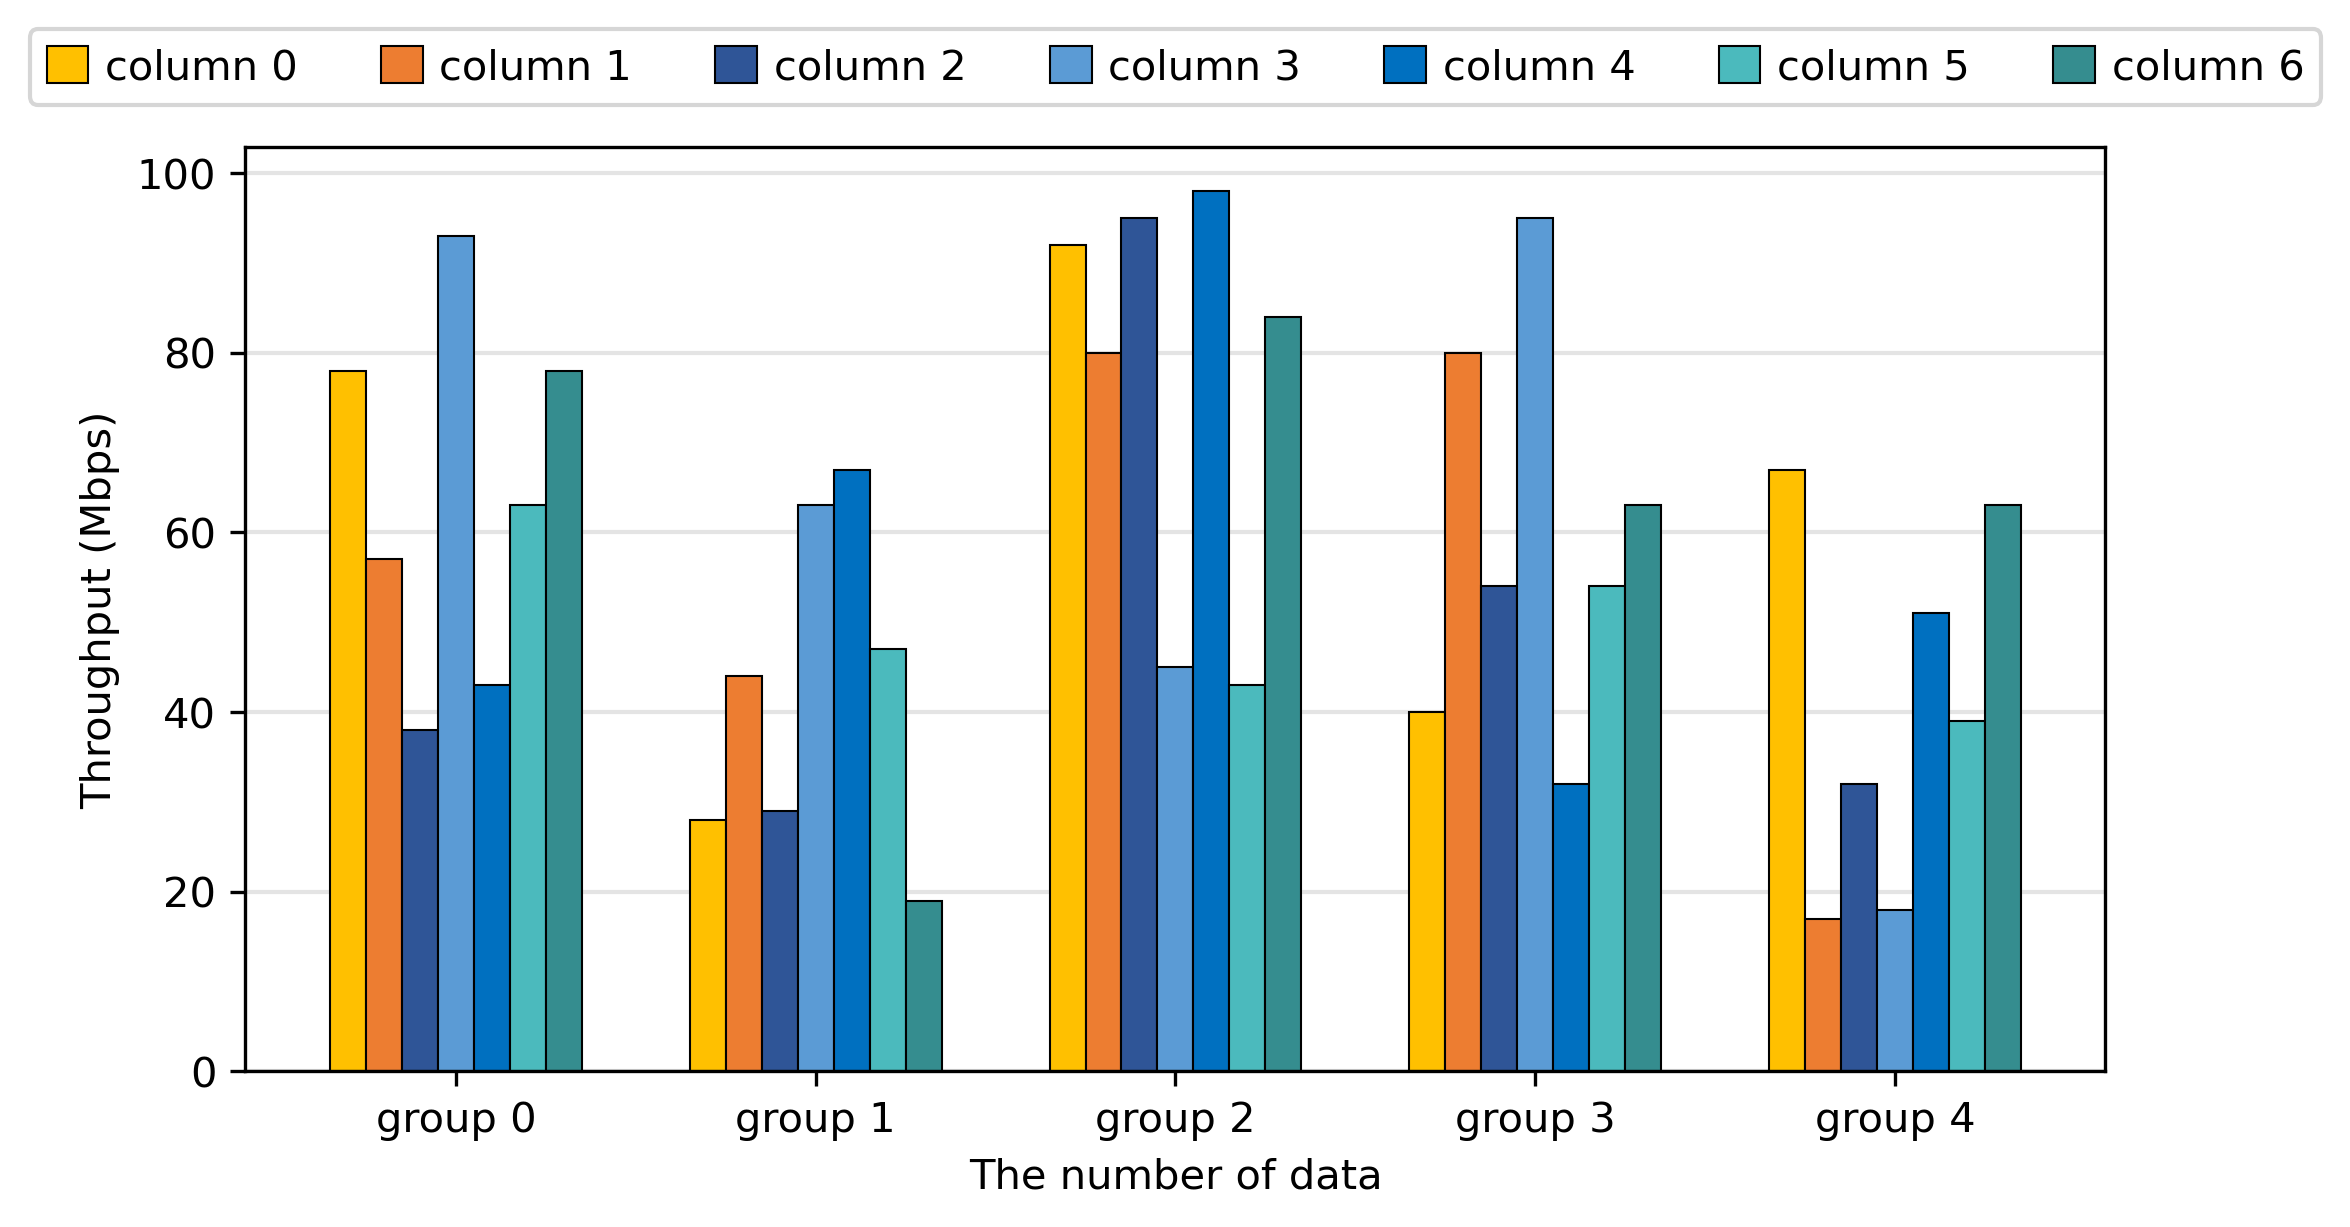
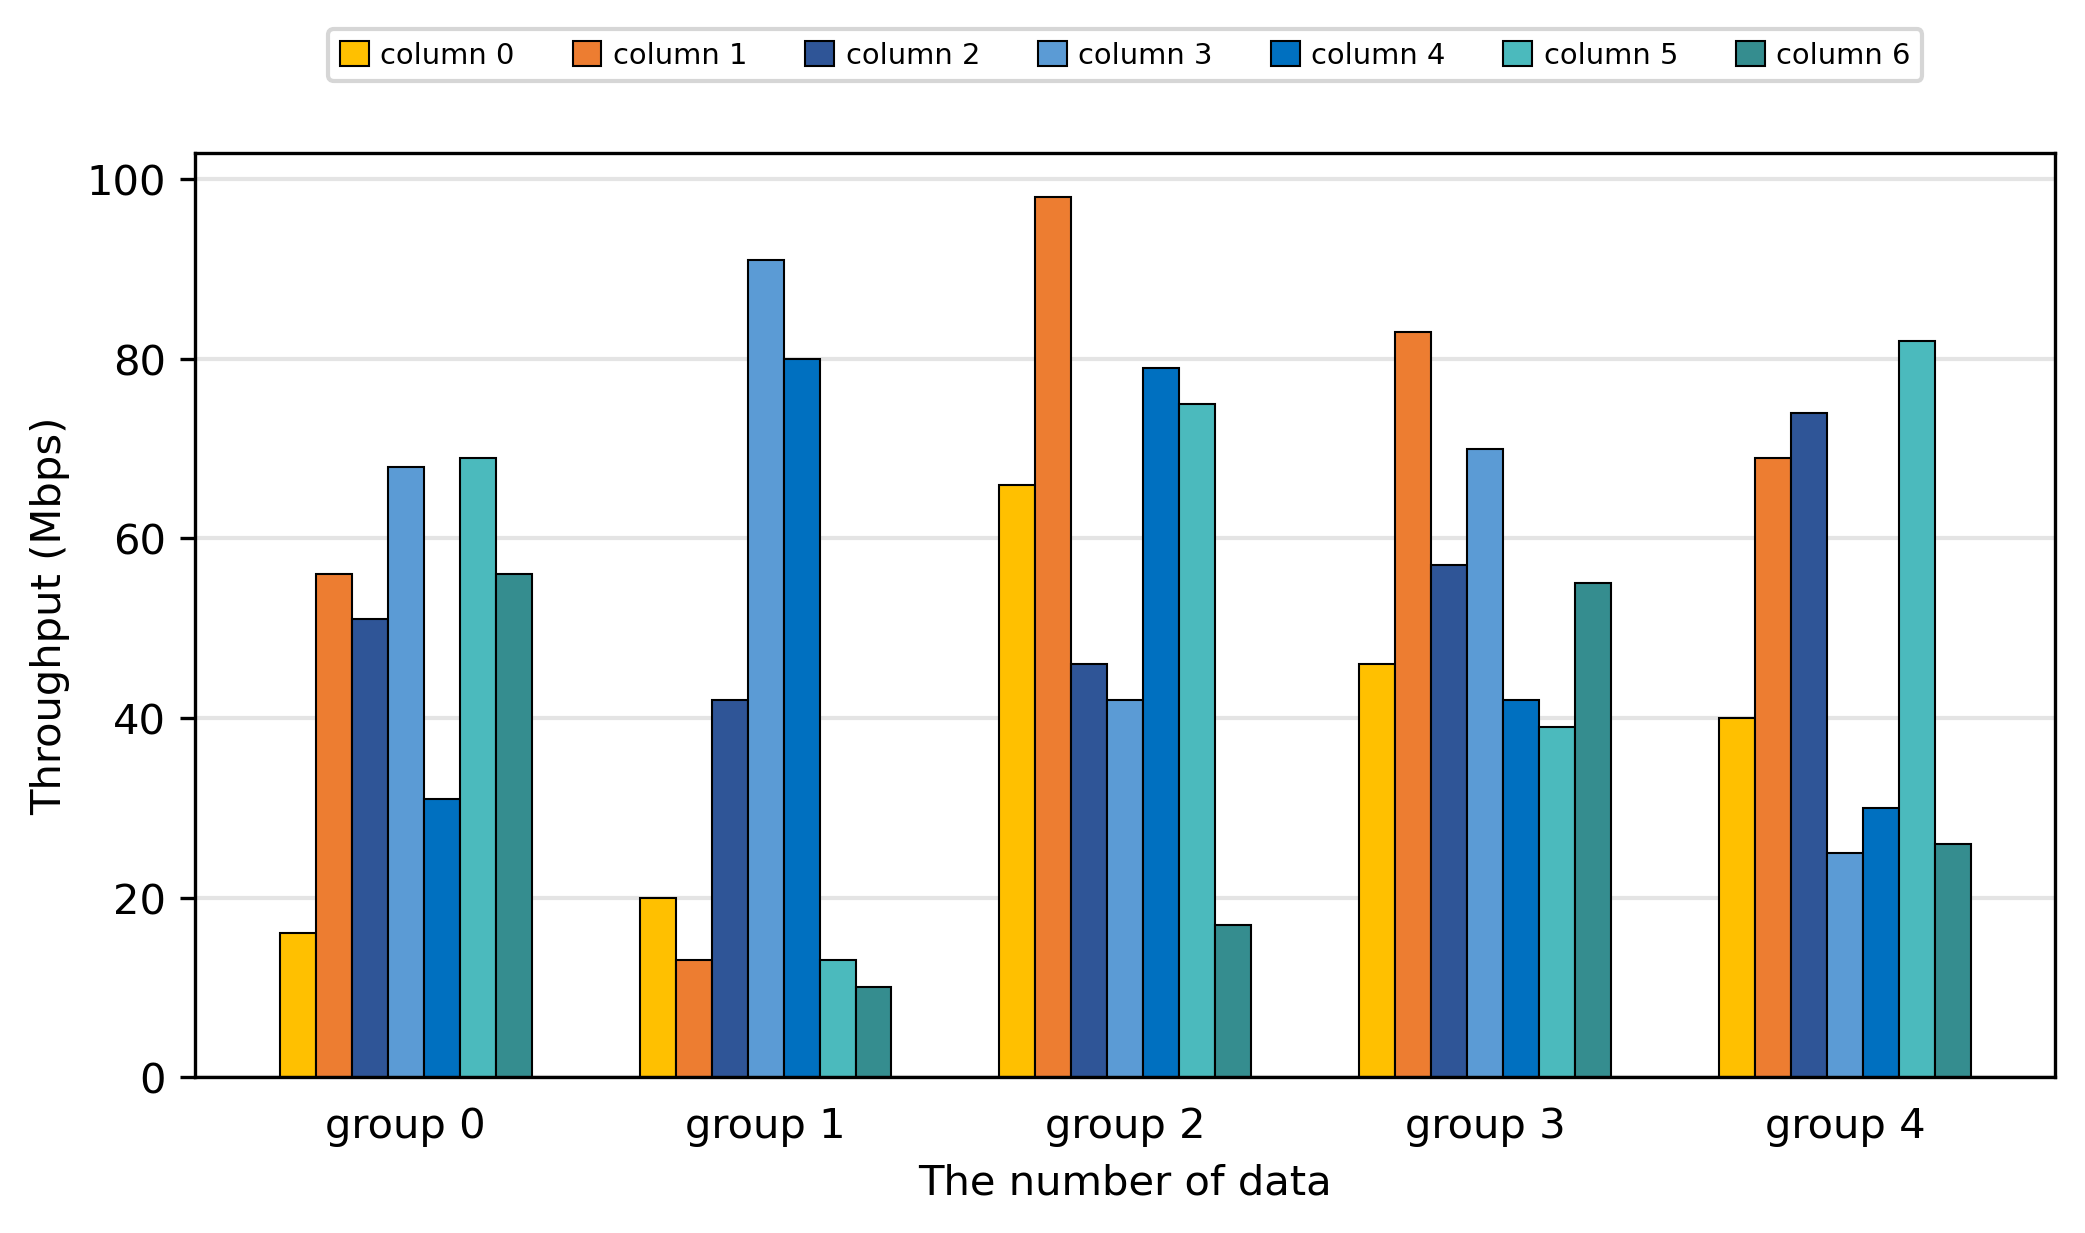
[dev] : update color style

diff --git a/paperplotlib/color.css b/paperplotlib/color.css
@@ -2,34 +2,22 @@
     color: #acbcdb #012790;
 }
 
-.warm {
-    color: #ffc000 #fdd835 #fbc02d #f9a825 #f57f17;
-}
-
-.one {
+.style-1 {
     color: #0070c0;
-}
-
-.two {
     color: #ffc000 #0070c0;
-}
-
-.three {
-    color: #4472c4 #ffc000 #63c0cf;
-}
-
-.four {
+    color: #ffc000 #4472c4 #63c0cf;
     color: #ffc000 #4c91b8 #0070c0 #63c0cf;
-}
-
-.five {
     color: #ffc000 #ed7d31 #5b9bd5 #4bbabd #358d8f;
-}
-
-.six {
     color: #ffc000 #ed7d31 #5b9bd5 #0070c0 #4bbabd #358d8f;
+    color: #ffc000 #ed7d31 #2f5597 #5b9bd5 #0070c0 #4bbabd #358d8f;
 }
 
-.seven {
-    color: #ffc000 #ed7d31 #2f5597 #5b9bd5 #0070c0 #4bbabd #358d8f;
+.style-2 {
+    color: #2a6fdb;
+    color: #FEDA93 #2a6fdb;
+    color: #FEDA93 #48d6d2 #2a6fdb;
+    color: #FEDA93 #81e9e6 #48d6d2 #2a6fdb;
+    color: #FEDA93 #81e9e6 #48d6d2 #2a6fdb #122c91;
+    color: #FEDA93 #FCB24B #81e9e6 #48d6d2 #2a6fdb #122c91;
+    color: #FEDA93 #FCB24B #B56D25 #81e9e6 #48d6d2 #2a6fdb #122c91;
 }

diff --git a/paperplotlib/bar_graph.py b/paperplotlib/bar_graph.py
@@ -5,8 +5,8 @@ import numpy as np
 
 
 class BarGraph(Graph):
-    def __init__(self) -> None:
-        super().__init__()
+    def __init__(self, style_id: int = 1) -> None:
+        super().__init__(style_id=style_id)
 
         self._bar_width = 0.3  # 柱状图宽度 [0-1] (default 0.8)
         self._group_threshold = 0.15  # 组间距
@@ -21,9 +21,7 @@ class BarGraph(Graph):
         """
         # x 轴坐标等距
         x_ticks = range(len(x_data))
-
-        self.ax.bar(x_ticks, y_data, width=self._bar_width, color=COLOR.get_colors(1))
-
+        self.ax.bar(x_ticks, y_data, width=self._bar_width, color=COLOR.get_colors(1, self.style_id))
         # x 轴标签和位置的映射
         self.ax.set_xticks(x_ticks, x_data)
 
@@ -40,19 +38,20 @@ class BarGraph(Graph):
         emphasize_index: 高亮的列索引
         """
         assert np.shape(data) == (len(group_names), len(column_names)), "二维数据应为二维列表"
+
+        group_len = len(group_names)
+        column_len = len(column_names)
+
         if emphasize_index != -1:
             assert (
                 type(emphasize_index) == int and emphasize_index < len(column_names) and emphasize_index >= 0
             ), f"emphasize_index应在[0, {len(column_names)})之间"
 
-        group_len = len(group_names)
-        column_len = len(column_names)
-
         # 如果列数很多, 考虑到组间距, 所以重新计算一下柱状图宽度
         if column_len >= 3:
             self._bar_width = (0.5 - self._group_threshold) / column_len * 2
 
-        colors = COLOR.get_colors(column_len, emphasize_index)
+        colors = COLOR.get_colors(column_len, self.style_id, emphasize_index)
         for i in range(column_len):
             bar_pos = -column_len + 2 * i + 1
             x_ticks = [j + bar_pos / 2 * self._bar_width for j in range(group_len)]
@@ -61,9 +60,10 @@ class BarGraph(Graph):
                 x_ticks, bar_data, width=self._bar_width, color=colors[i], edgecolor="black", linewidth=0.5
             )
         self.ax.set_xticks(range(group_len), group_names)
+        self.ax.tick_params(bottom=False)
 
         # https://matplotlib.org/stable/api/legend_api.html#module-matplotlib.legend
-        self.ax.legend(
+        self.legend = self.ax.legend(
             column_names,
             loc="upper center",  # 居中置顶
             ncols=column_len,  # 横向排布
@@ -71,6 +71,7 @@ class BarGraph(Graph):
             handlelength=1,  # 图例长宽, 修改为正方形
             handleheight=1,  # 图例长宽, 修改为正方形
             handletextpad=0.4,  # 缩短文字和图例的间距
+            fontsize="x-small" if column_len >= 7 else "medium",  # 图例文字大小
         )
 
     def add_line(self, y: int, line_style="-"):

diff --git a/paperplotlib/color.py b/paperplotlib/color.py
@@ -8,37 +8,29 @@ from typing import List, Dict, Tuple
 class Color:
 
     def __init__(self) -> None:
-        self.colors: Dict[str, List[List[str]]] = {}
-        self.key_map = {
-            1: "one",
-            2: "two",
-            3: "three",
-            4: "four",
-            5: "five",
-            6: "six",
-            7: "seven",
-        }
+        self.colors: Dict[str, Dict[int, List[str]]] = {}
 
     def add(self, name: str, hex_groups: List[List[str]]):
-        self.colors[name[1:]] = hex_groups
+        name = name[1:]
+        self.colors[name] = {}
+        for hex_group in hex_groups:
+            self.colors[name][len(hex_group)] = hex_group
 
-    def get_colors(self, color_num: int, emphasize_index: int = -1) -> List[str]:
-        
-        if emphasize_index != -1:
-            return self.get_emphasize(emphasize_index, color_num)
-        
+    def get_colors(self, color_num: int, style_id: 1, emphasize_index: int = -1) -> List[str]:
         # 对于更多颜色的情况, 采用渐变
         if color_num > 7:
-            return generate_color_gradient(self.colors["cold"][0][0], self.colors["cold"][0][1], color_num)
+            return generate_color_gradient(self.colors["cold"][2][0], self.colors["cold"][2][1], color_num)
         else:
-            return self.colors[self.key_map[color_num]][0]
+            colors = self.colors[f"style-{style_id}"].get(color_num)
+            if colors is None:
+                return generate_color_gradient(self.colors["cold"][2][0], self.colors["cold"][2][1], color_num)
+            return colors
 
     def get_emphasize(self, index, color_num: int) -> List[str]:
         emphasized_color = self.colors["warm"][0][0]
         colors = generate_color_gradient(self.colors["cold"][0][0], self.colors["cold"][0][1], color_num)
         colors.insert(index, emphasized_color)
         return colors
-
 
 def parse_colors() -> Color:
     """

diff --git a/paperplotlib/graph.py b/paperplotlib/graph.py
@@ -7,7 +7,8 @@ class Graph:
     图表
     """
 
-    def __init__(self) -> None:
+    def __init__(self, style_id: int = 1) -> None:
+        self.style_id = style_id
         self.fig = plt.figure(figsize=(8, 4))
         self.ax = self.fig.add_subplot(111)
         
@@ -32,6 +33,17 @@ class Graph:
     def plot(self, x_data: List[float], y_data: List[float]):
         """
         填入数据
+        """
+        raise NotImplementedError("请在子类中实现此方法")
+
+    def plot_2d(self, y_data: List[List[float]], group_names: List[str], column_names: List[str]):
+        """
+        绘制二维柱状图
+
+        ## Parameters
+        y_data: 二维列表,每个元素为一组数据
+        group_names: 每个组的名称
+        column_names: 每一列的名称
         """
         raise NotImplementedError("请在子类中实现此方法")
 

diff --git a/test.py b/test.py
@@ -3,13 +3,13 @@ import numpy as np
 
 # 随机生成一个 5 x 7 的数据
 a = 5
-b = 8
+b = 7
 y = np.random.randint(10, 100, size=(a, b))
 
 group_names = [f"group {i}" for i in range(a)]
 column_names = [f"column {i}" for i in range(b)]
 
-graph = ppl.BarGraph()
+graph = ppl.BarGraph(style_id=2)
 graph.plot_2d(y, group_names, column_names)
 graph.x_label = "The number of data"
 graph.y_label = "Throughput (Mbps)"

diff --git a/README.md b/README.md
@@ -45,3 +45,4 @@ graph.save()
 - [matplotlib.pyplot的使用总结大全](https://www.zhihu.com/tardis/zm/art/139052035?source_id=1003)
 - [matplotlib.pyplot常用函数讲解大全(一)](https://zhuanlan.zhihu.com/p/139475633)
 - [matplotlib.pyplot常用函数讲解大全(二)](https://zhuanlan.zhihu.com/p/139946399)
+- [Presentation练习_科研论文中插图的配色原理与方案](https://www.bilibili.com/video/BV1cJ4m1j7No/)

diff --git a/md-docs/配色选择.md b/md-docs/配色选择.md
@@ -26,3 +26,4 @@
 - [分享 | 顶刊高质量论文插图配色(含RGB值及16进制HEX码)(第二期)](https://zhuanlan.zhihu.com/p/674906660)
 - [调色板界的"扛把子"--palettable](https://zhuanlan.zhihu.com/p/374631766)
 - [Python数据分析之Seaborn(配色方案)](https://cloud.tencent.com/developer/article/1670419)
+- 
